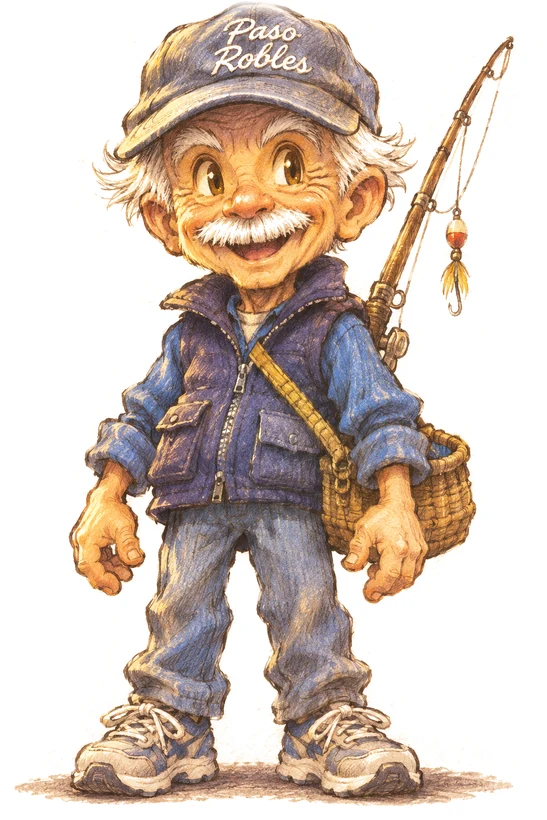
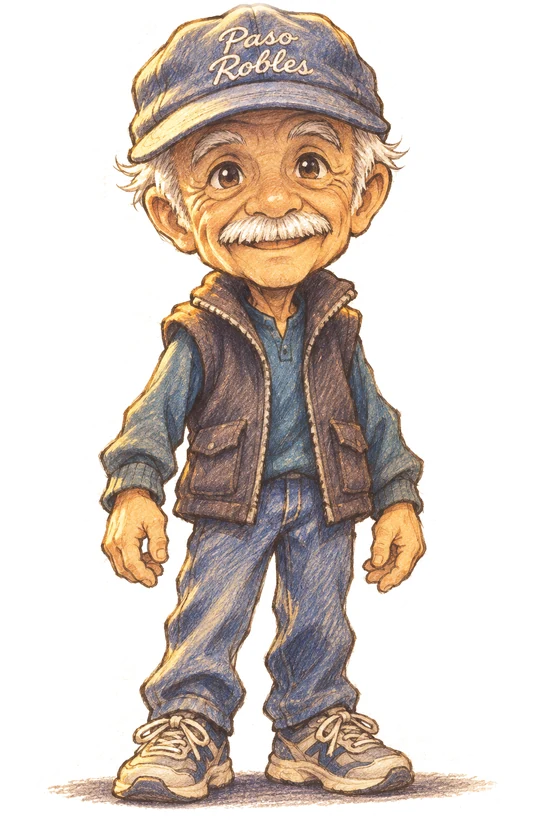
heroframes1: menu heroes of Tom, Grace and Boppy from the newest approved paintings
Claude-Session: https://claude.ai/code/session_01RXeukEgRJmqHfC9UN7skQ3

diff --git a/index.html b/index.html
@@ -1931,17 +1931,17 @@ html.landscape:not(.tablet):not(.duo) #battle.v2 .b2-x{font-size:17px}html.lands
 <script src="engine/emotions.js?v=tomstretch4"></script>
 <script src="engine/script-edits.js?v=scripted2"></script><!-- Script Editor overlay: Tom's line edits applied before a scene plays (script.html) --><!-- mood faces and poses in story dialogue (batch 0: chapter 1) -->
 <script src="engine/tapwalk.js?v=bossbig1"></script><!-- tap to walk -->
-<script src="data/build-history.js?v=board-smokefix2"></script><!-- build names and times (tools/build_history.py) -->
+<script src="data/build-history.js?v=heroframes1"></script><!-- build names and times (tools/build_history.py) -->
 <script src="engine/build-history.js?v=buildpill1"></script><!-- build label on the welcome screen and menu, tap for the build history -->
 <script src="engine/m2-core.js?v=menucrease1"></script><!-- the main menu (menu1, the only menu since menu4) -->
-<script src="engine/m2-family.js?v=reports-2026-11-21c"></script><!-- its Family page -->
+<script src="engine/m2-family.js?v=heroframes1"></script><!-- its Family page -->
 <script src="engine/m2-vibes.js?v=vibelayout1"></script><!-- its Vibes and Gear pages (menu2) -->
 <script src="engine/m2-bag.js?v=fix-menu4play-3"></script><!-- its Bag and System pages (menu3) -->
 <script src="engine/amber-spots.js?v=reports-2026-11-21b"></script><!-- orange blocks left behind are solid and answer A (amberspot1) -->
 <script src="engine/block-break.js?v=ch7t1"></script><!-- breaking an orange block: coin, cracks, colour ring, shrink-back, encounters off (ch6build stage 2) -->
 <script src="engine/scene-props.js?v=crispfix1"></script><!-- drawn stand-in props a scene can put on a map: the chart, Rose rolled up, the gold ball, bulbs (ch7build stage 2) -->
 <script src="engine/video-call.js?v=ch6s4"></script><!-- the video call at the end of chapter 6: Long Island seen from Tom's porch (ch6build stage 4) -->
-<script src="engine/main.js?v=board-smokefix2"></script>
+<script src="engine/main.js?v=heroframes1"></script>
 <script src="engine/music.js"></script>
 <script src="data/songs.js"></script>
 <script src="engine/music-clips.js?v=adminvol1"></script>

diff --git a/data/build-history.js b/data/build-history.js
@@ -1,6 +1,7 @@
 // Generated by tools/build_history.py. Do not edit by hand. Newest first.
 const BUILD_HISTORY=[
-{"tag":"board-smokefix2","at":"2026-11-26T15:39:19-08:00","what":"Board card for the two smoke failures on main","kind":"house"},
+{"tag":"heroframes1","at":"2026-11-26T15:44:48-08:00","what":"The menu hero paintings of Tom, Grace and Boppy are the newest approved ones","card":"c-heroframes1","theme":"Characters"},
+{"tag":"board-smokefix2","at":"2026-11-26T15:39:19-08:00","what":"Board card for the two smoke failures on main","kind":"house","card":"b-board-smokefix2","theme":"Tools"},
 {"tag":"hitstoplab1","at":"2026-11-26T14:46:46-08:00","what":"The Battle Lab review holds a move's hit stop at the right length","card":"c-hitstoplab1","theme":"Battle Animations"},
 {"tag":"tnbframes","at":"2026-11-26T14:41:44-08:00","what":"TNB's new walking, feelings, talking, thinking and listening pictures are in the game","card":"c-tnbframes","theme":"Characters"},
 {"tag":"hitstop1","at":"2026-11-26T14:24:32-08:00","what":"A move's hit stop plays in a real Battle 3 fight","card":"c-hitstop1","theme":"Battle Animations"},

diff --git a/engine/m2-family.js b/engine/m2-family.js
@@ -8,7 +8,7 @@
 // Under each person: name, level, health, Main Vibe with Rank stars, Front row or Back row, and a New skill tag after a Rank-up until
 // their Vibes page is opened. Everyone recruited who is not in the party waits on the bench; Change swaps them in (benchSwap,
 // benchToParty in engine/bench.js). The Family Ruckus gauge has its marks at 50 and 100.
-const M2_V='menu1',M2_FIG=.935,M2_FEET=.04,M2_ASPECT=547/820;
+const M2_V='menu2',M2_FIG=.935,M2_FEET=.04,M2_ASPECT=547/820;
 const m2Inches=m=>(typeof WALK_SCALE!=='undefined'&&WALK_SCALE[m.id]&&WALK_SCALE[m.id].inches)||0;
 const m2Bench=()=>(typeof benchMembers==='function'?benchMembers():[]);
 function m2RuckusPct() { const v=(typeof B3S!=='undefined'&&Number.isFinite(B3S.ruckus))?B3S.ruckus:0; return Math.max(0,Math.min(100,Math.round(v))); }

diff --git a/engine/main.js b/engine/main.js
@@ -110,7 +110,7 @@ startSplash();
   const d=document.createElement('button');
   d.type='button'; d.id='build-stamp'; d.setAttribute('aria-label','Build history');
   // On an iPhone Duo the stamp also shows the page size and pose the game measured, so Tom can read them back (docs/DUO.md).
-  d.textContent='build board-smokefix2';
+  d.textContent='build heroframes1';
   const build=d.textContent,stamp=()=>{ const w=typeof buildWhenLabel==='function'?buildWhenLabel(build.slice(6)).slice(2):'', duo=typeof duoMode!=='undefined'&&duoMode.device?window.innerWidth+'x'+window.innerHeight+(duoMode.open?' duo open':' duo folded'):'';
     d.textContent=build; for(const t of [w,duo]) if(t){ const s=document.createElement('small'); s.textContent=t; d.appendChild(s); } };
   window.BUILD_TAG=build.slice(6);

diff --git a/docs/CHANGES.md b/docs/CHANGES.md
@@ -1,3 +1,8 @@
+## heroframes1 (2026-11-26): the menu hero paintings of Tom, Grace and Boppy are the newest approved ones
+
+Tom: "Implement any other pending approved character pose sheets". Checked every approved Characters entry in the Art Library: nothing newer than what is in the game is waiting for Amy, Justin, Olivia, Ellie, Jojo or Michael (their last approvals are from 11-11 or earlier; amy-listen and justin-listen are not generated yet). What was left: the menu hero paintings. `bake_menu_heroes.py tom grace deedee boppy` now bakes `tom-hero-v4`, `grace-hero-v2` and `boppy-hero-v3` (Deedee's `deedee-hero-v2` was already in). `M2_V` moved to `menu2` so phones fetch the new pictures. Not done: the four Deedee fart poses (Tom said a later scene) and `tomride-title-v2` (no screen uses it). Portraits (`portraits/`) are baked by the portrait Action, not touched here.
+
+
 ## board-smokefix2 (2026-11-26): board card for the two smoke failures on main
 
 Added card c-smokefix2 (Claude lane, Tools theme): `python3 tools/smoke.py` fails on main on the board4 check in `board_sync_test` and on the night manifest, which lacks `tools/hidebf_test.py`. Board only; no game file changed.
